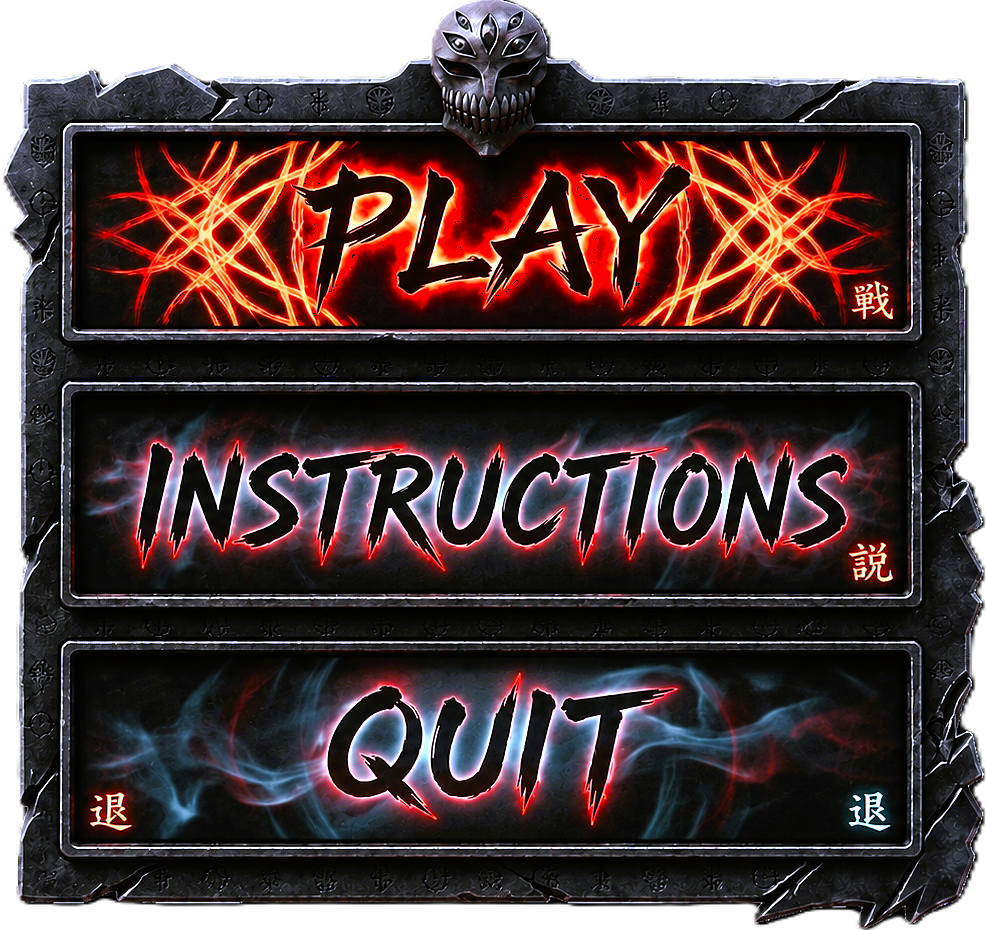
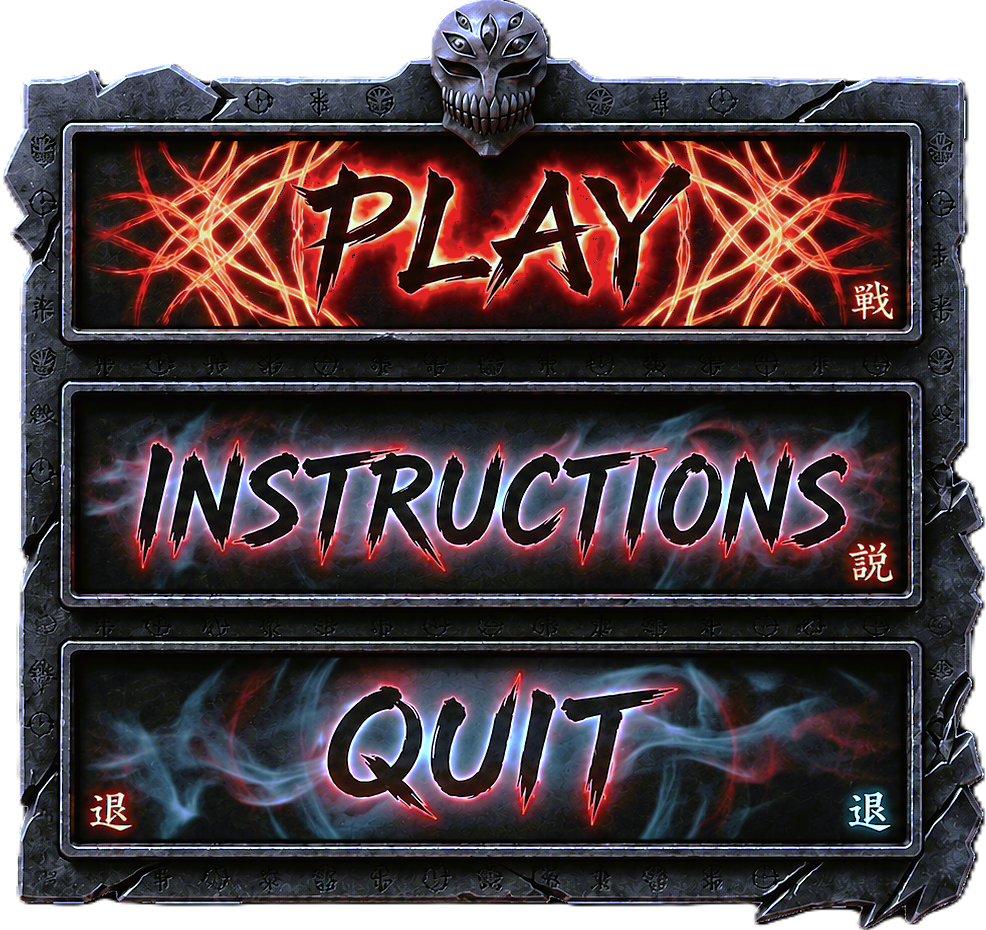
pause menu and main menu working

diff --git a/bleach.py b/bleach.py
@@ -193,14 +193,16 @@ def createEnemies():
 def draw_pause():
     pygame.draw.rect(st.surface,(128,128,128,150),[0,0, st.screen_width,st.screen_height])
     pygame.draw.rect(st.surface,'dark gray',[st.screen_width//2-210,160,440,50],0,12)
-    reset= pygame.draw.rect(st.surface,'white',[st.screen_width//2-210,220, 210,50],0,12) 
-    save= pygame.draw.rect(st.surface,'white',[st.screen_width//2+20,220, 210,50],0,12) 
+    restart= pygame.draw.rect(st.surface,'white',[st.screen_width//2-210,220, 210,50],0,12) 
+    mainmenu= pygame.draw.rect(st.surface,'white',[st.screen_width//2+20,220, 210,50],0,12) 
+    instructions= pygame.draw.rect(st.surface, 'white',[st.screen_width//2-210,290, 430,50],0,12)
     st.surface.blit(st.font.render("Game Paused: Esc to Resume",True,'black'),(st.screen_width//2-200,160))
     st.surface.blit(st.font.render('Restart',True, 'black'),[st.screen_width//2-150,220, 210,50])
     st.surface.blit(st.font.render('Main Menu',True, 'black'),[st.screen_width//2+50,220, 210,50])
+    st.surface.blit(st.font.render('Instructions',True,'black'),[st.screen_width//2-80,290, 430,50])
     st.win.blit(st.surface,(0,0))
     pygame.display.update()
-    return reset, save
+    return restart, mainmenu,instructions
 
 def reset():
     global player,enemy, last_enemy_spawn
@@ -247,7 +249,7 @@ def gameEnded():
 def main():
     run = True
     st.game_state="mainmenu"
-    restart, mainmenu = None, None
+    restart, mainmenu,instructions = None, None,None
     while run:
         clock.tick(30)
         events= pygame.event.get()
@@ -265,7 +267,10 @@ def main():
             for event in events:
                 if event.type== pygame.KEYDOWN:
                     if event.key== pygame.K_ESCAPE:
-                        st.game_state="mainmenu"
+                        if not st.pause:
+                            st.game_state="mainmenu"
+                        else:
+                            st.game_state="start"
         if st.game_state=="start":
             createEnemies()
             if player.staminaGauge<100:
@@ -277,6 +282,8 @@ def main():
                     elif mainmenu and mainmenu.collidepoint(event.pos):
                         st.game_state="mainmenu"
                         reset()
+                    elif instructions and instructions.collidepoint(event.pos):
+                        st.game_state="instructions"
                 if event.type == pygame.KEYDOWN:
                     if not st.pause:
                         if event.key not in st.NON_INTERRUPT_KEYS and event.key in st.EXISTING_KEYS:
@@ -342,7 +349,7 @@ def main():
                             st.pause=False
                         else:
                             st.pause=True
-                            restart, mainmenu=draw_pause()
+                            restart, mainmenu,instructions=draw_pause()
                     
 
             keys = pygame.key.get_pressed()

diff --git a/mainmenu.py b/mainmenu.py
@@ -9,9 +9,6 @@ def draw():
     play_rect=pygame.Rect(st.screen_width//2-170, st.screen_height//2+120, 340, 70)
     instruct_rect= pygame.Rect(st.screen_width//2-170,st.screen_height//2+205, 340,70)
     quit_rect = pygame.Rect(st.screen_width//2-170, st.screen_height//2+285, 340, 70)
-    pygame.draw.rect(st.win, (255,0,0), play_rect,2)
-    pygame.draw.rect(st.win, (0,0,255),instruct_rect,2)
-    pygame.draw.rect(st.win, (0,255,0), quit_rect, 2)
 
     pygame.display.update()
     return play_rect,instruct_rect,quit_rect